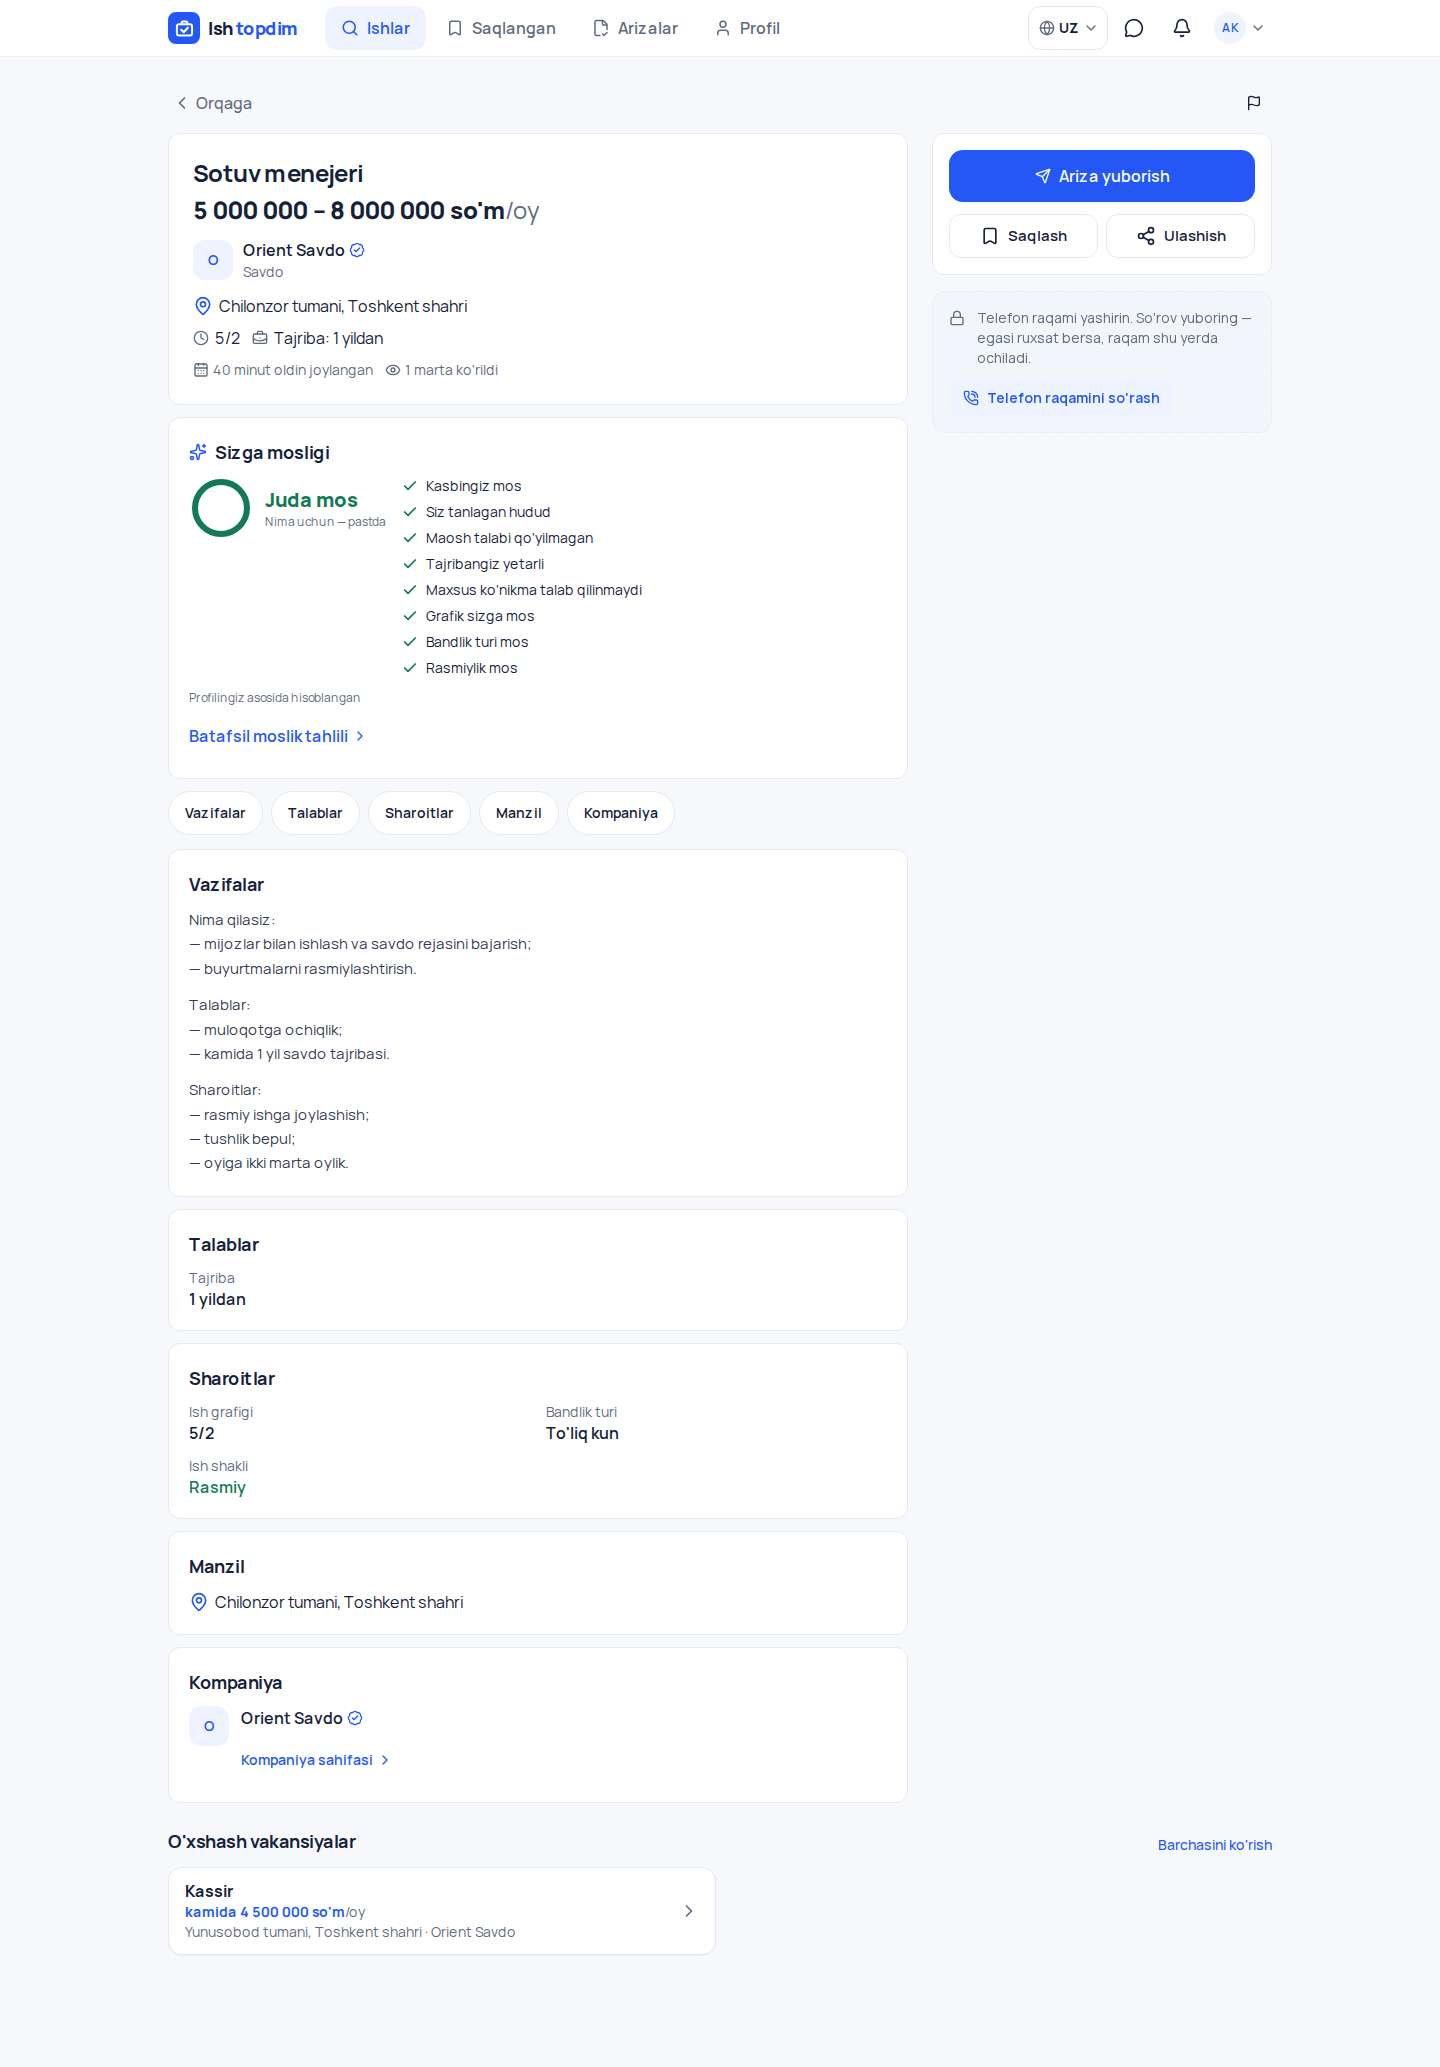
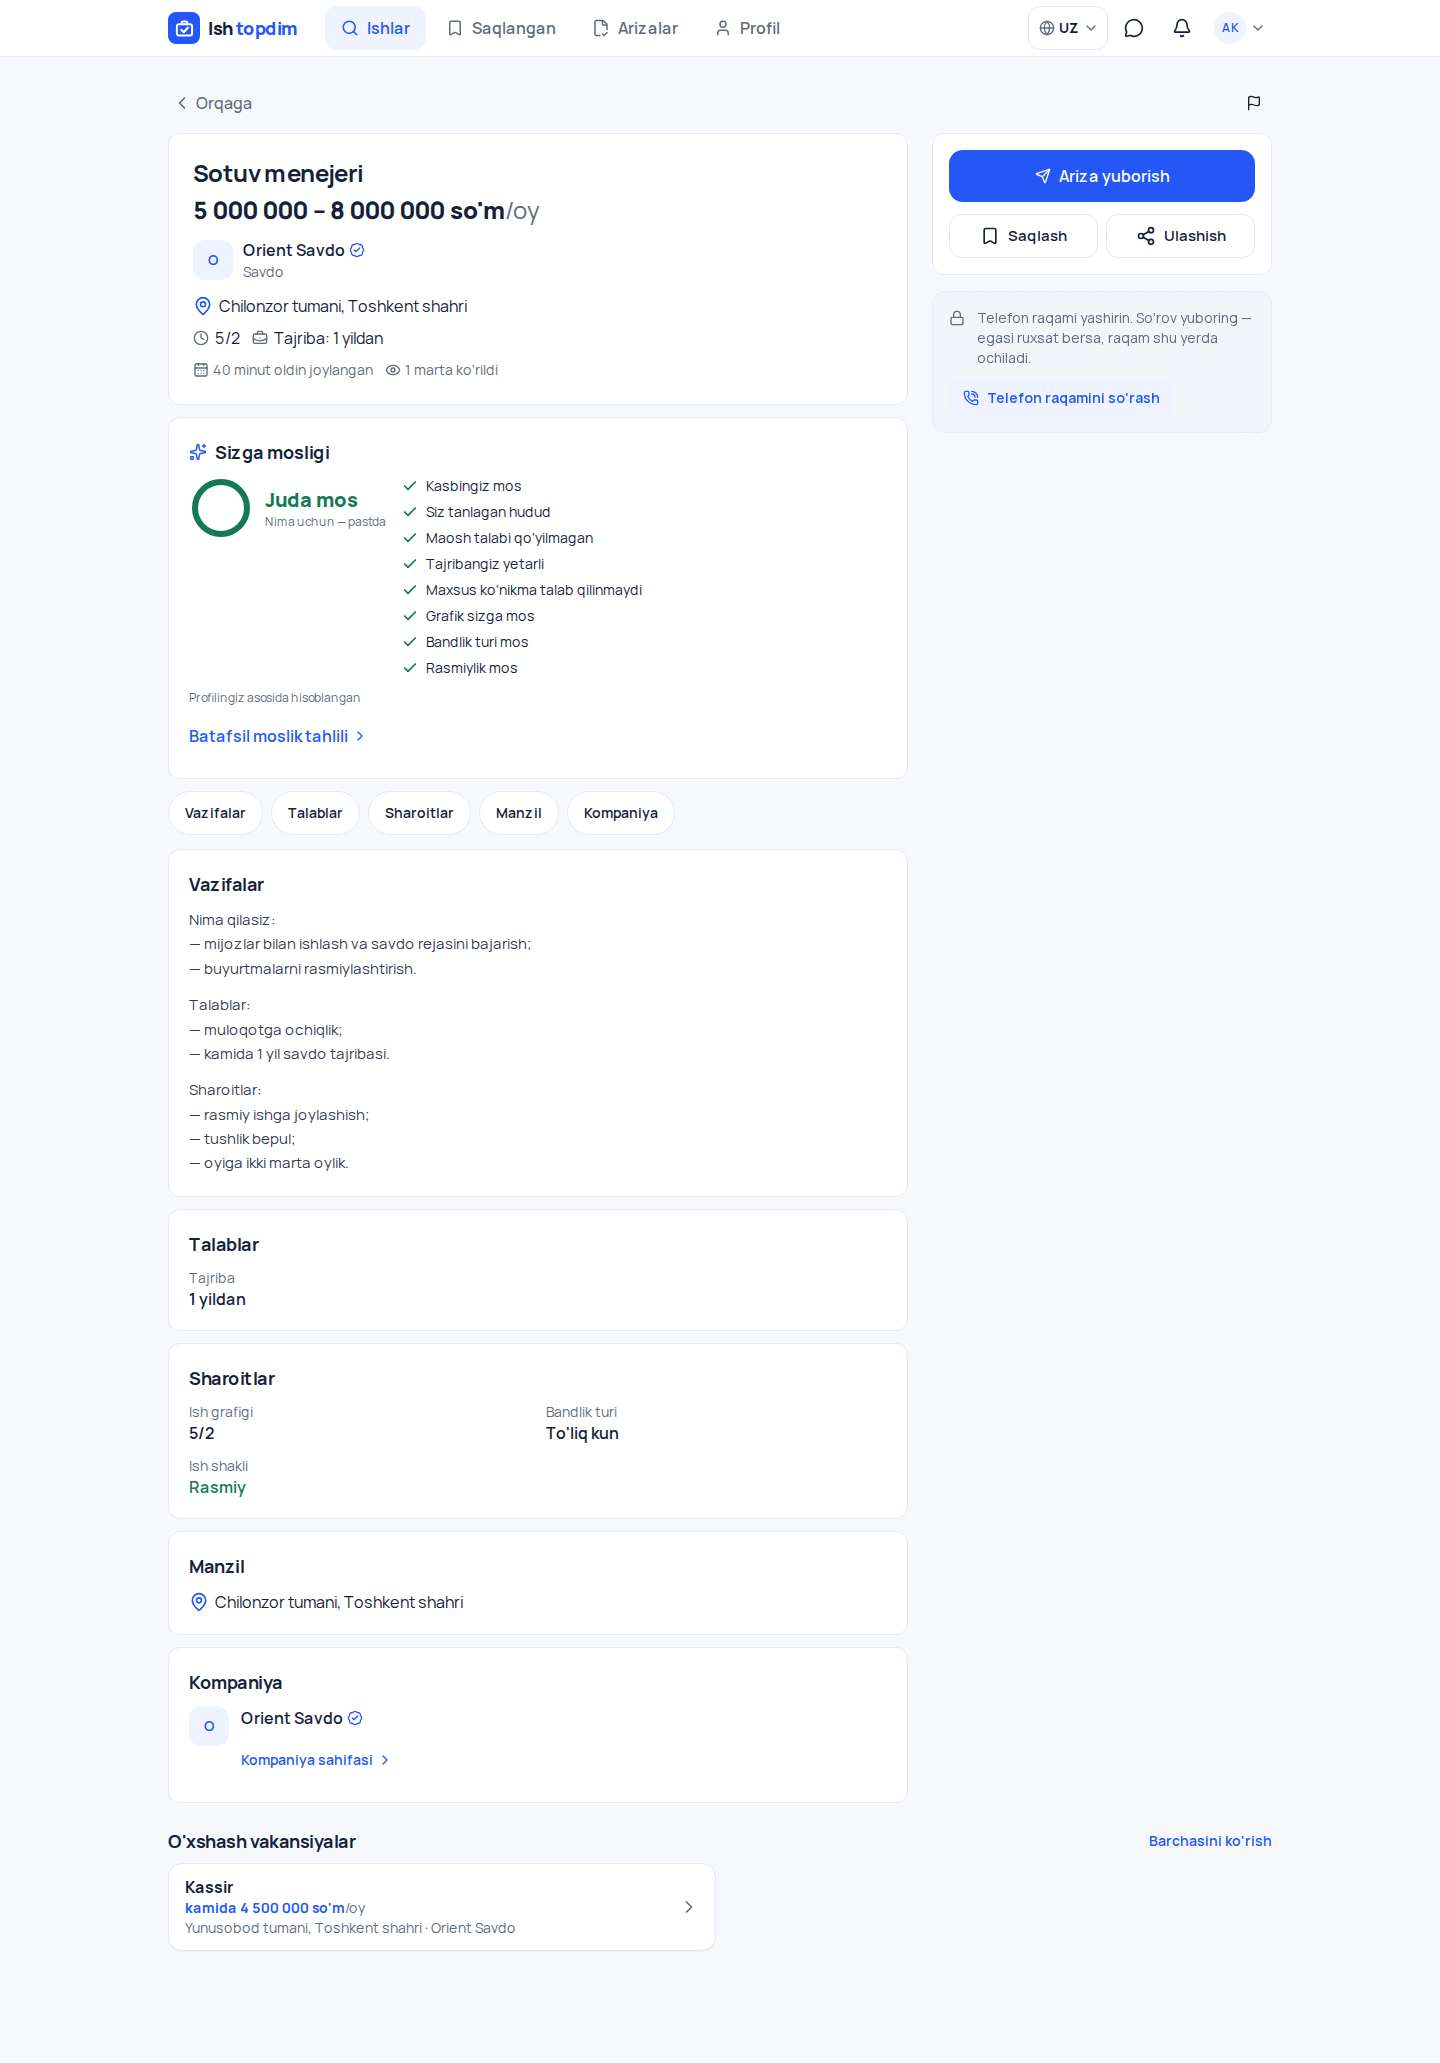
Language picker keeps a choice made before hydration; bigger "see all" targets
- The header language select was controlled: picking a language before
  React hydrated (slow phones) was reverted. It is now uncontrolled and a
  pre-hydration choice is applied on mount. New E2E holds the JS chunks,
  picks English, then releases them: fails 3/3 on the old code, passes
  5/5 now; the previously flaky language test passed 8/8.
- Section "see all" links get a 44 px tap target (found by the a11y spec).
- The screenshot script deletes its sample vacancies afterwards so they
  do not leak into other E2E runs on the shared stack.
- Report: stage 2 results.

Claude-Session: https://claude.ai/code/session_018PfZ1utKZyWvm4f3Y28PjH

diff --git a/src/components/shared/language-switcher.tsx b/src/components/shared/language-switcher.tsx
@@ -1,6 +1,6 @@
 "use client";
 
-import { useTransition } from "react";
+import { useEffect, useRef, useTransition } from "react";
 import { useRouter } from "next/navigation";
 import { ChevronDown, Globe } from "lucide-react";
 import { useT } from "@/lib/i18n/client";
@@ -51,22 +51,32 @@ export function LanguageSelect({ className }: { className?: string }) {
   const { locale } = useT();
   const router = useRouter();
   const [pending, startTransition] = useTransition();
+  const ref = useRef<HTMLSelectElement>(null);
+  const apply = (next: Locale) =>
+    startTransition(async () => {
+      // tarmoq uzilsa — xato ekrani emas, til o'zgarmay qoladi
+      await setLocale(next).catch(() => undefined);
+      router.refresh();
+    });
+  // sahifa to'liq yuklanmasdan (gidratsiyadan oldin) tanlangan til yo'qolmasin: sekin telefonda foydalanuvchi tanlab
+  // ulgurgan bo'lsa, tanlov o'sha zahoti qo'llanadi (select boshqarilmaydi — React uni eski qiymatga qaytarmaydi)
+  useEffect(() => {
+    const picked = ref.current?.value as Locale | undefined;
+    if (picked && picked !== locale && (LOCALES as readonly string[]).includes(picked)) apply(picked);
+    // faqat birinchi chizilishda
+    // eslint-disable-next-line react-hooks/exhaustive-deps
+  }, []);
   return (
     <label className={cn("relative inline-flex h-11 items-center gap-1 rounded-xl border border-border bg-card pl-2.5 pr-2 text-sm font-bold", pending && "opacity-60", className)}>
       <Globe className="hidden size-4 text-muted-foreground min-[400px]:block" aria-hidden />
       <span aria-hidden>{LOCALE_LABELS[locale]}</span>
       <ChevronDown className="size-4 text-muted-foreground" aria-hidden />
       <select
+        ref={ref}
+        key={locale}
         aria-label="Til · Тил · Язык · Language"
-        value={locale}
-        onChange={(e) => {
-          const next = e.target.value as Locale;
-          startTransition(async () => {
-            // tarmoq uzilsa — xato ekrani emas, til o'zgarmay qoladi
-            await setLocale(next).catch(() => undefined);
-            router.refresh();
-          });
-        }}
+        defaultValue={locale}
+        onChange={(e) => apply(e.target.value as Locale)}
         className="absolute -inset-px cursor-pointer opacity-0"
       >
         {LOCALES.map((l) => (

diff --git a/e2e/specs/flows.spec.ts b/e2e/specs/flows.spec.ts
@@ -34,6 +34,27 @@ test("til almashganda qidiruv filtrlari URL'da saqlanadi", async ({ page, contex
   await switchLanguage(page, "O'zbekcha");
 });
 
+test("til sahifa to'liq yuklanmasdan tanlansa ham yo'qolmaydi (sekin telefon: JS kech keladi)", async ({ page, context }) => {
+  await asGuest(context);
+  let release!: () => void;
+  const gate = new Promise<void>((r) => (release = r));
+  // JS bo'laklari ushlab turiladi — sahifa HTML'i ko'rinadi, React hali ulanmagan
+  await page.route("**/_next/static/chunks/**", async (route) => {
+    // faqat skriptlar (uslublar ushlansa — sahifa umuman chizilmaydi)
+    if (route.request().resourceType() === "script") await gate;
+    await route.continue();
+  });
+  // HTML kelishi bilan (skriptlarni kutmasdan): tanlagich chizilgan, lekin React hali ulanmagan
+  await page.goto("/search?mode=jobs&any=1&region=all", { waitUntil: "commit" });
+  await page.getByRole("combobox", { name: /Til · Тил · Язык · Language/ }).waitFor();
+  await switchLanguage(page, "English");
+  release();
+  await expect(page.locator("html")).toHaveAttribute("lang", "en");
+  await page.unroute("**/_next/static/chunks/**");
+  await switchLanguage(page, "O'zbekcha");
+  await expect(page.locator("html")).toHaveAttribute("lang", "uz");
+});
+
 test("e'lonni joylash tugmasini ikki marta bosish — bitta e'lon", async ({ page, context }) => {
   await sql("delete from public.vacancies where owner_profile_id = $1", [USERS.employer]);
   await asMode(context, "employer");

diff --git a/src/components/ui/misc.tsx b/src/components/ui/misc.tsx
@@ -120,10 +120,11 @@ function Separator({ className }: { className?: string }) {
 /** Bo'lim sarlavhasi + "Barchasini ko'rish" havolasi */
 function SectionHeader({ title, href, linkLabel, className }: { title: string; href?: string; linkLabel?: string; className?: string }) {
   return (
-    <div className={cn("mb-3 flex items-end justify-between gap-3", className)}>
-      <h2 className="text-lg font-bold">{title}</h2>
+    <div className={cn("mb-2 flex items-center justify-between gap-3", className)}>
+      <h2 className="min-w-0 text-lg font-bold">{title}</h2>
       {href && linkLabel ? (
-        <Link href={href} className="text-sm font-medium text-primary hover:underline">
+        // bosish maydoni ≥ 44 px (matn kichik bo'lsa ham), sarlavha bilan bir chiziqda
+        <Link href={href} className="-my-2 inline-flex min-h-11 shrink-0 items-center text-sm font-semibold text-primary hover:underline">
           {linkLabel}
         </Link>
       ) : null}

diff --git a/e2e/screens/redesign.shots.ts b/e2e/screens/redesign.shots.ts
@@ -81,6 +81,11 @@ async function seed() {
   return v!.slug;
 }
 
+/** Namunaviy e'lonlar boshqa E2E testlar natijasiga aralashmasin (stend umumiy) — skrinshotdan keyin o'chiriladi */
+test.afterAll(async () => {
+  await sql("delete from public.vacancies where owner_profile_id = $1", [EMP]);
+});
+
 async function as(ctx: BrowserContext, who: "worker" | "employer") {
   await loginAs(ctx, who === "worker" ? WRK : EMP);
   await asMode(ctx, who);

diff --git a/docs/REDESIGN_2026-10.md b/docs/REDESIGN_2026-10.md
@@ -132,6 +132,13 @@ To'liq sahifa variantlari: `*-full.jpg`.
   - ish izlovchi bosh sahifasidagi rasmli plitka.
 
   Ular yangi xulq-atvorga moslandi — kartada rasm yo'q va buzilgan rasm qolmaydi; plitka rasmi ish beruvchi sahifasida tekshiriladi. Shu 4 fayl qayta ishga tushirildi: 41/41 o'tdi.
+- **2-bosqichdan keyin to'liq E2E (toza stend, 205 ta):** 204 o'tdi.
+  - Yagona yiqilgan test — avvaldan ma'lum beqaror til almashtirish testi (`flows.spec.ts:26`).
+  - **Sabab topildi:** sahifa to'liq yuklanmasdan (React ulanmasdan) til tanlansa, React tanlovni eski qiymatga qaytarardi. Sekin telefonda haqiqiy foydalanuvchida ham shunday bo'ladi.
+  - **Tuzatildi:** tanlagich boshqarilmaydigan bo'ldi va oldin qilingan tanlov ulanish zahoti qo'llanadi.
+  - **Yangi test:** JS yuklanishini ushlab turib, til tanlanadi. Eski kodda 3/3 FAIL ("uz" qoladi), yangisida 5/5 PASS. Eski beqaror test 8/8 o'tdi.
+- **a11y testi topgan kamchilik:** "Barchasini ko'rish" havolasining bosish maydoni 20 px edi (o'xshash vakansiyalar, nomzodlar bo'limi). Endi ≥ 44 px.
+- **Stend gigiyenasi:** skrinshot skripti o'z namunaviy e'lonlarini endi o'zi o'chiradi. Avval ular keyingi E2E natijalariga aralashib, 13 ta soxta yiqilishga sabab bo'lgan edi; toza stendda bu testlar o'tadi.
 - **Yangi yoki yangilangan tekshiruvlar:**
   - 390×844 da kirgan ish qidiruvchida birinchi vakansiyaning nomi, maoshi (davri bilan) va hududi pastki menyudan yuqorida;
   - tez filtrlar tartibi Kunlik · Tajribasiz · Masofaviy · Talabalar uchun; "Filtrlar" va "Talabalar uchun" to'g'ri sahifani ochadi;
